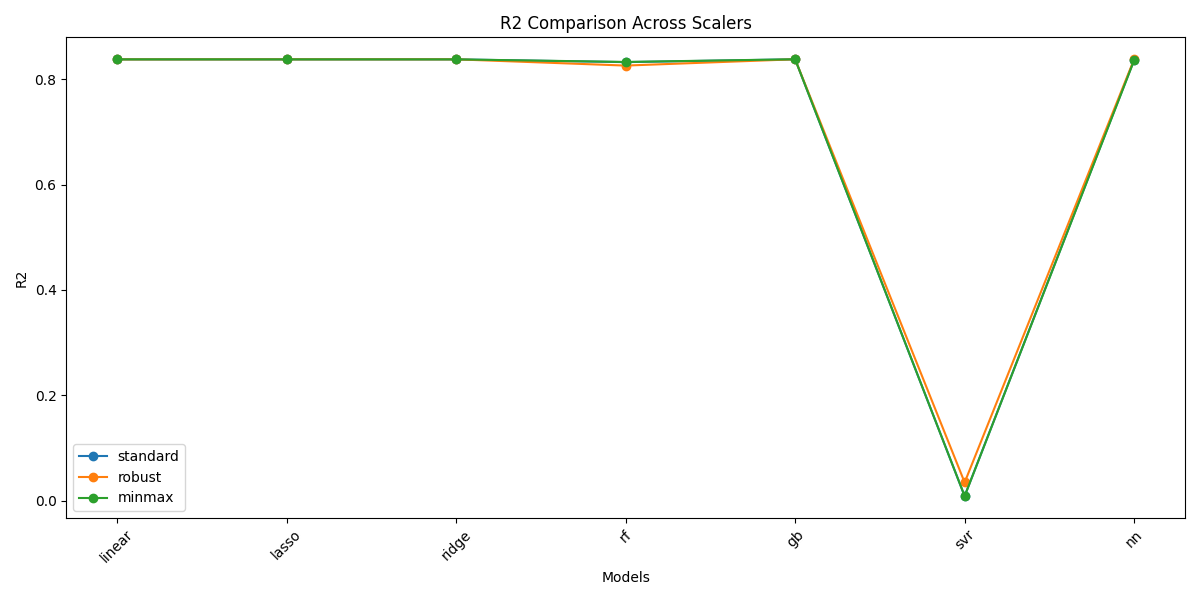
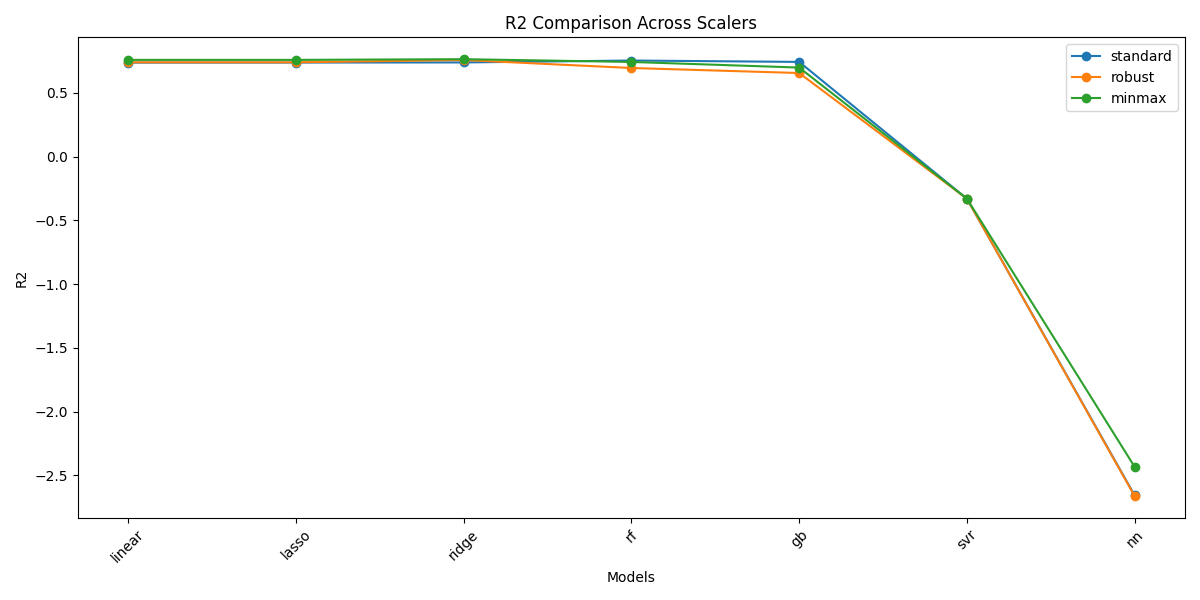
Added some error handling, fixed createmodel for nn models to a normal function vs lambda, added time/memory metrics

diff --git a/main.py b/main.py
@@ -1,11 +1,15 @@
 from src.data_preprocessing import DataPreprocessor
 from src.feature_engineering import FeatureEngineer
-from src.model_training import ModelTrainer
+from src.model_training import ModelTrainer, create_model
 from src.evaluation import ModelEvaluator
 from src.utils import save_model, load_model
 import pandas as pd
+import time
+import psutil
 
 def main():
+    start_time = time.time()
+    process = psutil.Process()
     preprocessor = DataPreprocessor()
     feature_engineer = FeatureEngineer()
     model_trainer = ModelTrainer()
@@ -14,7 +18,7 @@ def main():
     scaler_types = ['standard', 'robust', 'minmax']
     results = {}
 
-    sample_size = 50000  # Dataset size to be changed here
+    sample_size = 100  # Dataset size to be changed here
     feature_names = None
 
     for scaler_type in scaler_types:
@@ -109,6 +113,13 @@ def main():
     # Plot predictions for the best model on full dataset
     evaluator.plot_predictions(best_model_final, X_test_engineered_final, y_test_final)
     """
+    
+    end_time = time.time()
+    # check how much time it takes per pipeline run
+    print(f'Total execution time: {end_time - start_time:.2f} seconds')  # noqa: F821
+    # check the max memory it user per pipeline run
+
+    print(f"Peak memory usage: {process.memory_info().peak_wset / (1024 * 1024):.2f} MB")  # noqa: F821
 
 if __name__ == "__main__":
     main()

diff --git a/src/utils.py b/src/utils.py
@@ -5,9 +5,13 @@ def save_model(model, model_name, directory='models'):
     if not os.path.exists(directory):
         os.makedirs(directory)
     filepath = os.path.join(directory, f'{model_name}.joblib')
-    joblib.dump(model, filepath)
-    print(f"Model saved to {filepath}")
-
+    
+    try:
+        joblib.dump(model, filepath)
+        print(f"Model saved to {filepath}")
+    except Exception as e:
+        print(f"Error saving model: {str(e)}")
+        
 def load_model(model_name, directory='models'):
     filepath = os.path.join(directory, f'{model_name}.joblib')
     model = joblib.load(filepath)

diff --git a/src/model_training.py b/src/model_training.py
@@ -32,8 +32,13 @@ class ModelTrainer:
             'nn': self.build_nn_model
         }
 
+    # Not working when trying to save the model to a pickle file, approaching it differently below.
+    # def build_nn_model(self, input_dim):
+    #     return lambda: create_model(input_dim)
+    
     def build_nn_model(self, input_dim):
-        return lambda: create_model(input_dim)
+        model = create_model(input_dim)
+        return model
 
     def train_model(self, X_train, y_train, model_type='rf', params=None):
         if model_type not in self.models:
